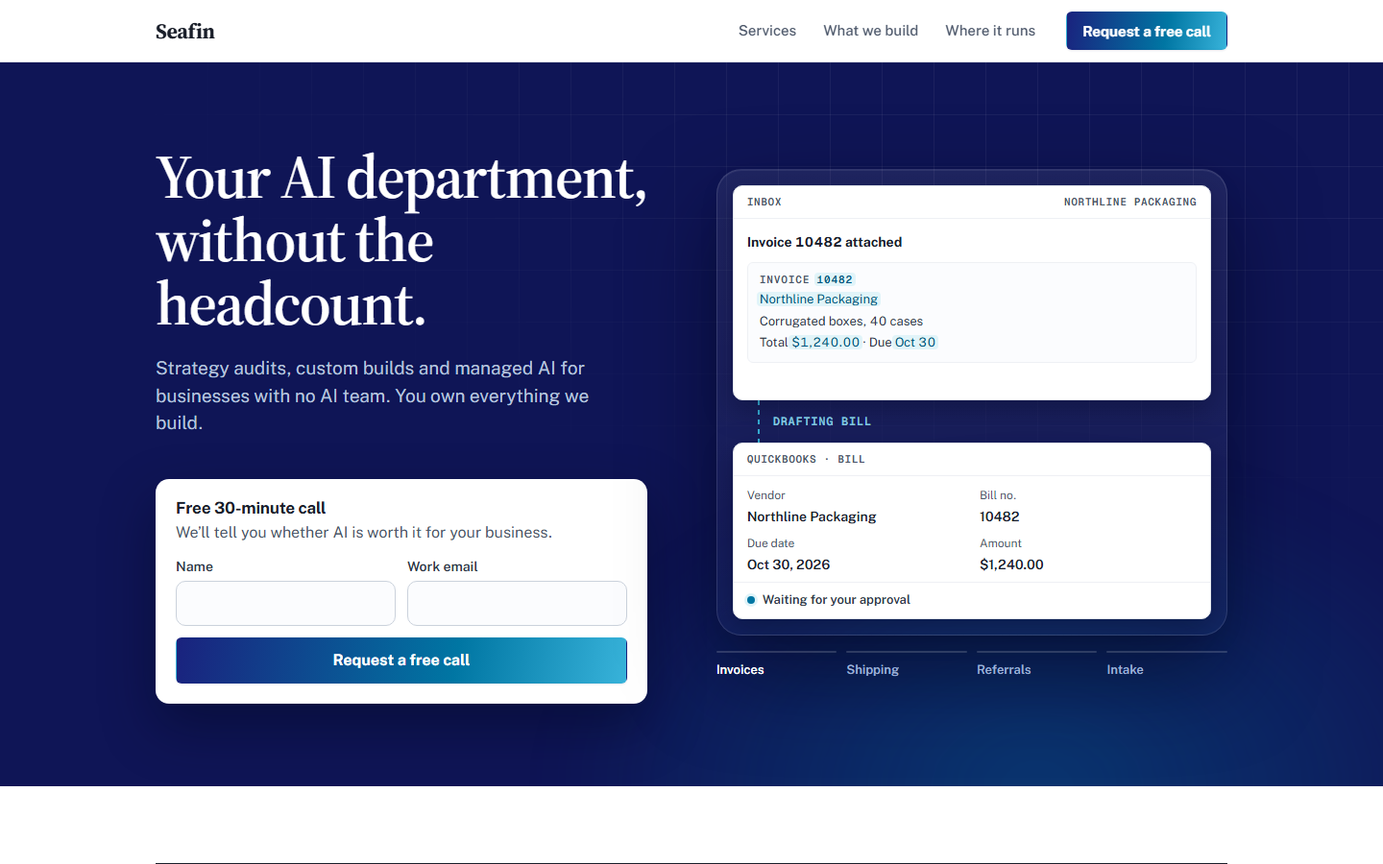
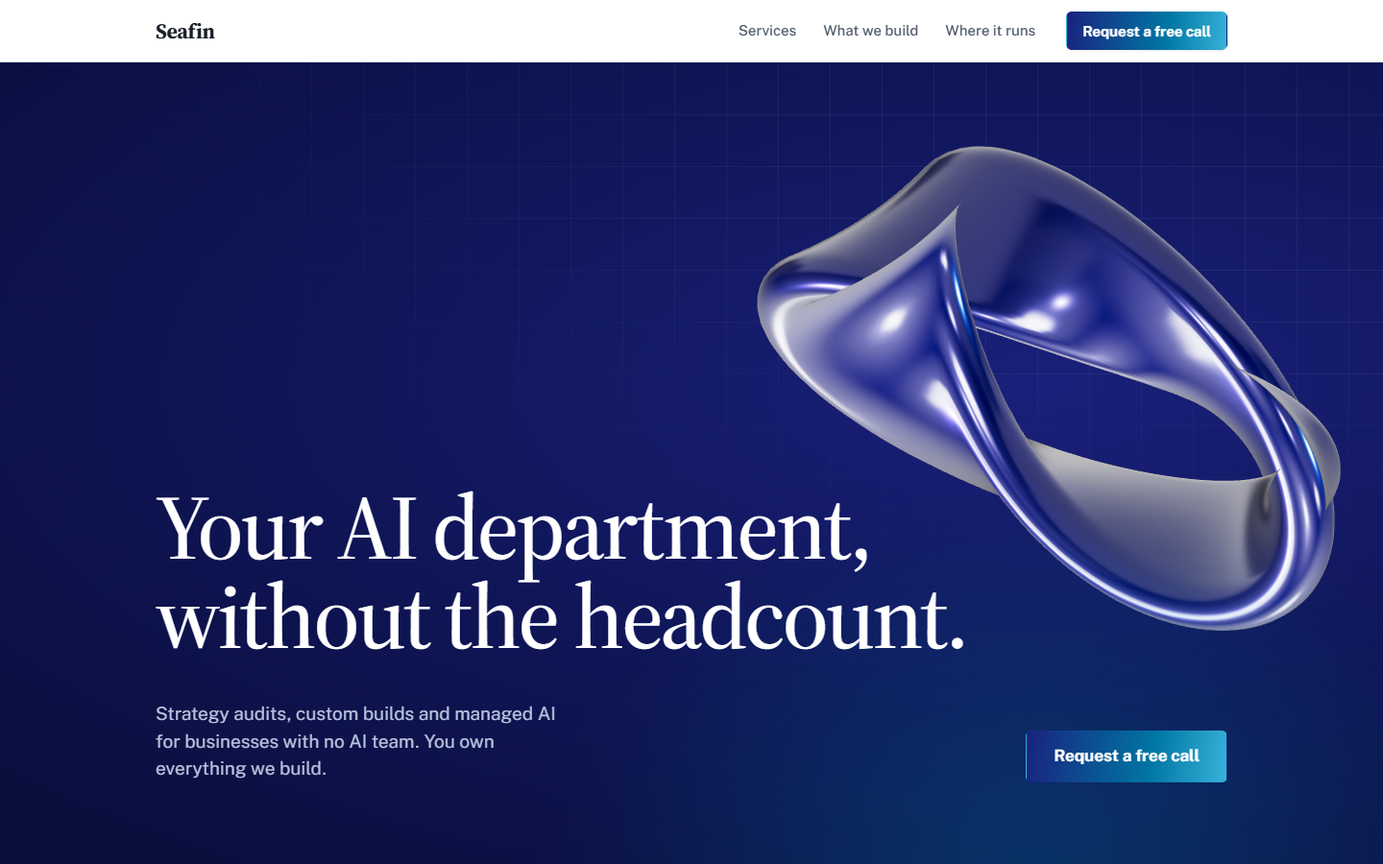
Design record for the Metalab-model opening; demo stage on Raised; review captures

diff --git a/seafin-site/home.css b/seafin-site/home.css
@@ -185,7 +185,7 @@ h1, h2, h3 { margin: 0; color: var(--ink-900); }
     linear-gradient(rgba(255, 255, 255, 0.045) 1px, transparent 1px) 0 0 / 40px 40px,
     linear-gradient(90deg, rgba(255, 255, 255, 0.045) 1px, transparent 1px) 0 0 / 40px 40px,
     radial-gradient(120% 100% at 80% 0%, #1d2590 0%, var(--tracelet-indigo-deep) 60%, #0a0f40 100%);
-  box-shadow: var(--shadow-3);
+  box-shadow: var(--shadow-2);
 }
 .app { position: relative; overflow: hidden; background: var(--paper); border: 1px solid var(--line); border-radius: var(--r-input); box-shadow: 0 10px 30px rgba(3, 6, 30, 0.35); color: var(--ink-900); }
 .app-dst { display: flex; flex-direction: column; }
@@ -269,9 +269,8 @@ h1, h2, h3 { margin: 0; color: var(--ink-900); }
 .fence { position: absolute; top: -0.6rem; left: 16px; padding: 0 6px; background: var(--paper); font: 600 0.6875rem/1.2rem var(--font-mono); letter-spacing: 0.06em; text-transform: uppercase; color: var(--tracelet-teal); }
 .node { flex: none; width: 7.5rem; display: grid; justify-items: center; gap: 10px; text-align: center; font: 600 0.875rem/1.3 var(--font-sans); color: var(--ink-700); }
 .node svg { width: 36px; height: 36px; fill: none; stroke: var(--tracelet-teal); stroke-width: 1.5; stroke-linecap: round; stroke-linejoin: round; }
-/* the one moving thing on the page: data flowing along each wire */
+/* a static dashed wire between the two nodes */
 .wire { flex: 1; height: 2px; margin: 17px 4px 0; background-image: linear-gradient(90deg, var(--tracelet-teal-soft) 55%, transparent 0); background-size: 10px 2px; }
-@keyframes flow { to { background-position: 10px 0; } }
 .band .fit { margin-top: 20px; color: var(--ink-700); }
 
 /* closing band */

diff --git a/DESIGN.md b/DESIGN.md
@@ -22,10 +22,10 @@ colors:
 typography:
   display:
     fontFamily: "Source Serif 4, Georgia, serif"
-    fontSize: "clamp(2.625rem, 4.6vw, 4rem)"
-    fontWeight: 600
-    lineHeight: 1.03
-    letterSpacing: "-0.025em"
+    fontSize: "clamp(2.75rem, 6.6vw, 6rem)"
+    fontWeight: 500
+    lineHeight: 0.98
+    letterSpacing: "-0.03em"
   headline:
     fontFamily: "Source Serif 4, Georgia, serif"
     fontSize: "clamp(1.875rem, 3vw, 2.5rem)"
@@ -95,6 +95,12 @@ components:
     rounded: "{rounded.control}"
     padding: "0 20px"
     height: "44px"
+  button-primary-large:
+    backgroundColor: "{colors.indigo}"
+    textColor: "#ffffff"
+    rounded: "{rounded.control}"
+    padding: "0 28px"
+    height: "54px"
   input:
     backgroundColor: "{colors.paper-2}"
     textColor: "{colors.ink-900}"
@@ -108,8 +114,9 @@ components:
   form-panel:
     backgroundColor: "{colors.paper}"
     rounded: "{rounded.panel}"
-    padding: "18px 20px 20px"
+    padding: "clamp(20px, 2.2vw, 28px)"
   demo-stage:
+    backgroundColor: "{colors.indigo-deep}"
     rounded: "{rounded.media}"
     padding: "16px"
     height: "486px"
@@ -126,9 +133,9 @@ components:
   index-row:
     typography: "{typography.index}"
     padding: "{spacing.row-pad} 0"
-  flow-row:
-    typography: "{typography.body-large}"
-    padding: "22px 0"
+  case-row:
+    typography: "{typography.body}"
+    padding: "18px 0 20px"
   panel:
     backgroundColor: "{colors.paper}"
     rounded: "{rounded.panel}"
@@ -153,49 +160,50 @@ components:
 
 Seafin does not have its own visual world. By the user's standing pin (PRODUCT.md, Brand Commitments), Seafin's site uses the Wardix design system: `tracelet` repo `design.md` on `origin/dev` ("Vigilant Infrastructure") for doctrine, and `tracelet-vendor/pages/css/tracelet-landing.css` for token values. This file records how that system landed on Seafin, and where Seafin departs from the Wardix marketing site. When this file is silent, the upstream `design.md` governs; when they disagree, this file records what Seafin shipped.
 
-The page should look like it comes from the same company as Wardix: it opens on the Wardix dark hero (Deep Indigo under a fading engineering grid and a soft teal glow, the same treatment `tracelet-landing.css` uses), then runs white with hairline rules, one Canvas band, one bordered panel, serif headings, sans everything else, and one gradient button. Restraint carries the premium feel everywhere except one place: the hero's demo, "the build, played", where the page shows what Seafin does by playing it. It reads as a consulting practice's page, not a person's or a product's. Density is moderate: a compact first viewport and generous spacing below.
+The page is built on the Metalab model (chosen 2026-10-04 after a study of leading design studios): the opening is one big serif statement and one crafted object on the Wardix dark field (deep indigo under the fading engineering grid and a soft teal glow), with nothing else on the first screen. Below it the page runs white with hairline rules, one Canvas band and a Bastion close: the form in its own section, the practice index, a played demo of real-world builds, and where the work runs. Serif headings, sans everything else, one gradient button. Restraint carries the premium feel; the two crafted pieces (the opening object and the build demo) carry the craft. It reads as a consulting practice's page, not a person's or a product's.
 
-Seafin departs from the Wardix marketing site in four places, each on purpose. There are no mono labels above headings, because Impeccable's craft floor bans them. There is no photography or raster imagery: no scenic hero (it would make Seafin read as a copy of the Wardix site), no founder portrait, no product screenshot. The pictures are built from markup: the hero demo's mock app cards, whose four scenes are modelled on published small-business cases, and the drawn teal route diagrams. The brand gradient is narrowed to the single primary action. And motion has one focal point, the demo; everything else that moves is quiet.
+Seafin departs from the Wardix marketing site in four places, each on purpose. There are no mono labels above headings, because Impeccable's craft floor bans them. There is no photography or raster imagery: no scenic hero (it would make Seafin read as a copy of the Wardix site), no founder portrait, no product screenshot. The pictures are made, not shot: one rendered 3D object in the opening, the demo's mock app cards (four scenes modelled on published small-business cases), and drawn teal route diagrams. The brand gradient is narrowed to the single primary action. And only two things move on their own, each in its own section.
 
 **Key Characteristics:**
-- A Deep Indigo opening with the upstream engineering grid, then a white page with one Canvas band and a Bastion close; dark mode from the same token pairs.
-- Source Serif 4 for the page's headings and the service names, Public Sans for everything readable, Geist Mono only for short functional tags and mock-software chrome.
+- A deep indigo opening holding one serif statement and one glossy 3D object, then a white page with one Canvas band and a Bastion close; dark mode from the same token pairs, with light surfaces pinned light.
+- Source Serif 4 for the statement, the section headings and the service names; Public Sans for everything readable; Geist Mono only for short functional tags.
 - One radius family: 6 / 10 / 14 / 26, plus 4px for inline highlights.
 - One action per page, one label for it, one gradient on it.
-- One focal motion (the hero demo), quiet supporting motion elsewhere; no photography; no invented proof.
+- Two self-moving pieces (the opening object, the build demo), everything else still; no photography; no invented proof.
 
 ## Colors
 
-Neutral cool surfaces with one control color (indigo), one accent (teal), and two dark fields: Deep Indigo to open, Bastion Navy to close.
+Neutral cool surfaces with one control color (indigo), one accent (teal), and two dark grounds: Deep Indigo for the opening and the demo stage, Bastion Navy to close.
 
 ### Primary
 - **Primary Indigo** (`indigo`): the control and brand color. Starts the brand gradient, sets `theme-color` and the text-selection background. Never used as a flat page fill.
-- **Deep Indigo** (`indigo-deep`): the hero field (#070a18 in dark mode, set on the hero itself) and the tint source for every light-mode shadow. Indigo Tint (#e8eaf5) is still declared from the Wardix set but unused here.
+- **Deep Indigo** (`indigo-deep`): the middle stop of the opening's radial field (#19207a at the light point, #080c33 at the edge) and of the demo stage's (#1d2590 to #0a0f40); the tint source for every light-mode shadow. The opening keeps the same field in both modes. Indigo Tint (#e8eaf5) is still declared from the Wardix set but unused here.
 
 ### Secondary
-- **Signal Teal** (`teal`): links, focus outlines, input focus borders, caret, duration tags, flow arrows, diagram icons, the dashed boundary and its label, the sent-state border on the form panel, and in the demo the flying chips, the working/done status dot and the typing caret. In dark mode it becomes Soft Teal (#38b3da) so it stays legible on navy; upstream Wardix does not make this swap.
-- **Deep Teal** (`teal-deep`): link hover and the text of a demo mark once the scan has lit it. In dark mode it lightens to #8fd6ee, so hover always moves away from the background.
-- **Soft Teal** (`teal-soft`): ends the brand gradient; every wire (route diagrams, demo relay); the demo scan line and tab progress fill; focus outline color on the dark fields.
+- **Signal Teal** (`teal`): links, focus outlines, input focus borders, caret, duration tags, diagram icons, the dashed boundary and its label, the sent-state border on the form panel; in the demo, the chips, the status dot, the playing case's input line and its 2px progress line. In dark mode it becomes Soft Teal (#38b3da) so it stays legible on navy; upstream Wardix does not make this swap.
+- **Deep Teal** (`teal-deep`): link hover and the text of a lit demo mark. In dark mode it lightens to #8fd6ee, so hover always moves away from the background.
+- **Soft Teal** (`teal-soft`): ends the brand gradient; the route-diagram wires; the opening object's teal rim light; focus outline color on the dark grounds.
 - **Teal Tint** (`teal-tint`): the 3px focus halo around inputs, the sent-state halo around the form panel, and the highlight behind a lit demo mark or a freshly filled demo field. Dark pair #0c2c3a.
 
 ### Tertiary
 - **Bastion Navy** (`bastion`): the closing band only, the same in both modes.
 
 ### Neutral
-- **Ink 900 / 700 / 500** (`ink-900`, `ink-700`, `ink-500`): headings, primary text, flow results and the practice-index top rule / field labels, diagram node labels, demo card body text, the "which one fits" line and the footer maker name / descriptions, flow inputs, demo field keys and app-bar text, nav and footer links. Dark pairs #e9ecf6 / #cdd3e6 / #9aa3c0.
+- **Ink 900 / 700 / 500** (`ink-900`, `ink-700`, `ink-500`): headings, primary text, demo app-bar names, the playing case's result line and the practice-index top rule / field labels, diagram node labels, demo card body text, resting case results, the "which one fits" line and the footer maker name / descriptions, case input lines, the call sub-line, demo field keys, nav and footer links. Dark pairs #e9ecf6 / #cdd3e6 / #9aa3c0.
 - **Paper** (`paper`): the page background, the form panel, the demo's app cards, the routes panel, nav (at 94%). Dark pair #121732.
-- **Paper 2** (`paper-2`): input fills, diagram wells and the document inset in a demo card. Dark pair #0f1430.
+- **Paper 2** (`paper-2`): input fills, diagram wells and the document and table-header insets in a demo card. Dark pair #0f1430.
 - **Canvas** (`bg`): the "Where it runs" band only. Dark pair #0b0e1a.
-- **Line** (`line`): panel and card borders, practice-index and flow row rules, section dividers, nav bottom border. Dark #262c44.
+- **Line** (`line`): panel and card borders, practice-index and case row rules, section dividers, nav bottom border. Dark #262c44.
 - **Line Soft** (`line-soft`): dividers inside a panel or card, diagram well borders. Dark #1e2438.
 - **Line Strong** (`line-strong`): input borders (hover mixes in 45% Ink 500); the idle demo status dot. Seafin's addition, not in the upstream token set. Dark #3a4466.
 - **Danger** (`danger`): form error text only. Dark #ff8a80. Seafin's name for upstream's critical red.
-- **Hero-local colors:** white for the H1, #b9c4de for the lede, #9fb0d4 for idle demo tabs (white when active or hovered), #8fd6ee for the demo's step label; the glass stage is white at 7% to 2.5% with a 13% white border. All set on the hero so it reads the same in both modes.
+- **Pinned light surfaces:** the form panel, the demo's app cards and its chips keep the light values of every token above in both modes, so they read as white objects on dark grounds and on the dark-mode page.
+- **Dark-ground local colors:** white for the H1, #b9c4de for the lede and the demo's step label, white at 28% for the demo relay line, white at 4.5% to 5.5% for grid lines. The opening object's second rim light is violet (#7d86ff), a light color only, never a fill.
 
 ### Named Rules
-**The One Gradient Rule.** The indigo-to-teal brand gradient appears only on "Request a free call" buttons (nav, form submit, closing band) and on the favicon tile. Not on text, cards, section backgrounds, or a second button. The hero's grid, teal glow, the demo's glass sheen and its scan line are translucent tints confined to the hero, not the brand gradient.
+**The One Gradient Rule.** The indigo-to-teal brand gradient appears only on "Request a free call" buttons (nav, opening, form submit, closing band) and on the favicon tile. Not on text, cards, section backgrounds, or a second button. The tonal indigo radials behind the opening and the demo stage, their grid lines and the teal glow are fields, not the brand gradient, and appear nowhere else.
 
-**The Two Dark Fields Rule.** Deep Indigo opens the page (the hero); Bastion Navy closes it (the closing band). Neither appears anywhere else, and they never swap.
+**The Dark Grounds Rule.** Deep Indigo is for the opening field and the demo stage; Bastion Navy is for the closing band. They never swap, and no other surface goes dark.
 
 **The Status-Means-State Rule.** Green, gold and red mean real system state. Seafin uses only red, and only for a failed form send. The demo's status dot is teal, never green.
 
@@ -210,63 +218,62 @@ All three are self-hosted WOFF2 files in `seafin-site/fonts`, using `font-displa
 **Character:** an editorial serif for the page's statements and the names of what Seafin sells, over a plain, sturdy civic sans that does all the reading. Tabular numerals are on across the whole body.
 
 ### Hierarchy
-- **Display** (600, clamp(2.625rem, 4.6vw, 4rem), 1.03, -0.025em, white): the hero H1 only. Balanced wrap. Drops to 2rem / 1.1 at ≤480px.
-- **Headline** (600, clamp(1.875rem, 3vw, 2.5rem), 1.12, -0.015em): section H2s and the closing-band H2.
+- **Display** (500, clamp(2.75rem, 6.6vw, 6rem), 0.98, -0.03em, white, max 11.5em): the opening statement only. The closing phrase ("without the headcount.") is held on one line above 480px; at ≤480px the statement is 2.625rem / 1.02 and wraps freely.
+- **Headline** (600, clamp(1.875rem, 3vw, 2.5rem), 1.12, -0.015em): section H2s, including the call section's "Free 30-minute call", and the closing-band H2.
 - **Index** (600, clamp(1.625rem, 2.4vw, 2.125rem), 1.15, -0.015em): service names in the practice index.
-- **Title** (Public Sans 700, 1.1875rem, 1.3): route H3s in the routes panel. The form-panel heading is a smaller sans title (700, 1.0625rem, 1.3, -0.01em).
-- **Lede** (400, 1.1875rem, 1.5, #b9c4de, max 40ch): the hero sentence, 20px under the H1.
-- **Body Large** (400, 1.125rem): flow rows; the result side is ink-900 at 600, the input side ink-500.
-- **Body** (400, 1.0625rem, 1.6): running text. Descriptions cap at 52 to 60ch.
-- **Label** (Geist Mono 600, 0.75rem, 0.06em, uppercase, teal): duration tags in the practice index; the demo's step label. The diagram boundary label and the demo's app-bar and document headers use the same face at 0.6875rem.
+- **Title** (Public Sans 700, 1.1875rem, 1.3): route H3s in the routes panel.
+- **Lede** (400, 1.1875rem, 1.5, #b9c4de, max 38ch): the opening sentence.
+- **Body Large** (400, 1.125rem): the call section's sub-line (ink-500, max 34ch).
+- **Body** (400, 1.0625rem, 1.6): running text. Descriptions cap at 52 to 60ch. Case rows: the input line at 0.9375rem, the result line at 600 1.0625rem / 1.4.
+- **Label** (Geist Mono 600, 0.75rem, 0.06em, uppercase, teal): duration tags in the practice index. The diagram boundary label uses the same face at 0.6875rem. Nothing inside the demo is mono.
 - **Field label** (Public Sans 600, 0.875rem, 1.3, ink-700): form labels and diagram node labels.
-- **Demo scale:** inside the demo cards text runs smaller to read as software: 0.875rem body, field values and chips (one fixed 1.5rem line), 0.8125rem documents, tables and tabs, 0.75rem field keys (body, values and chips one step smaller at ≤480px).
+- **Demo scale:** inside the demo cards text runs smaller to read as software, all in Public Sans: app-bar names 600 0.8125rem (meta 400 ink-500), 0.875rem body, field values and chips (one fixed 1.5rem line), 0.8125rem documents and tables, 0.75rem field keys and table headers (body, values and chips one step smaller at ≤480px).
 
 ### Named Rules
-**The Serif-Is-For-The-Page Rule.** Serif is for page-level headings (the H1, section H2s, the closing H2) and for the service names in the practice index, which act as the headings of what Seafin sells. Panel titles, including the form-panel heading and the route H3s, are Public Sans bold. Nothing inside the demo is serif.
+**The Serif-Is-For-The-Page Rule.** Serif is for the opening statement, section H2s, the closing H2 and the service names in the practice index, which act as the headings of what Seafin sells. Panel titles and everything inside the demo are Public Sans.
 
-**The Mono-Tags-Never-Lead Rule.** On the page, Geist Mono uppercase labels are short and functional: duration tags set beside their title (desktop) or beneath it (≤960px), the step label on the demo's wire, and the one label that names a drawn boundary in a diagram. A mono label never sits above a page heading and never leads a page row. Inside the demo's mock app cards, mono is the mock software's own chrome (app name and meta, document and table headers, speaker names) and depicts an interface; it is not a page device to reuse elsewhere.
+**The Mono-Tags-Never-Lead Rule.** Geist Mono uppercase labels are short and functional: duration tags set beside their title (desktop) or beneath it (≤960px), and the one label that names a drawn boundary in a diagram. A mono label never sits above a heading, never leads a row, and never stands in for interface chrome.
 
 ## Layout
 
 Single column centered at 1180px max width with a gutter of clamp(16px, 4vw, 32px). Sections pad clamp(56px, 7vw, 96px) top and bottom and are separated by a 1px Line rule.
 
-The first viewport is the dark hero (clamp(48px, 6vw, 96px) top, clamp(48px, 6vw, 88px) bottom), two columns at 1fr / 1.04fr, vertically centered, 40px by clamp(32px, 5vw, 72px) apart. Left: the serif H1, the lede, and clamp(28px, 3.5vw, 44px) below them the form panel. Right: the demo. The practice index follows on white after clamp(48px, 6vw, 80px), opened by its 1px ink-900 rule (its section heading is visually hidden). The practice index pattern was borrowed from Accenture's and Capgemini's practice pages (chosen 2026-10-04).
+The opening fills the first screen: at least 560px, at most 880px, otherwise the viewport less the 64px nav. Its content is anchored to the bottom (padding clamp(48px, 6vw, 96px) top, clamp(48px, 6vw, 88px) bottom): the statement, then clamp(28px, 3vw, 40px) below it one row with the lede on the left and the large primary button on the right, wrapping when narrow. The 3D object fills the field behind the text, framed large and partly cropped to the right of the statement on wide screens (≥900px canvas) and above it on narrow ones.
 
 The sections change shape instead of repeating one template:
-1. The practice index: open ruled rows, three columns (16rem / 13.5rem / 1fr) of name, duration tag and description (Services).
-2. A heading over full-width flow rows: input, arrow, result (What a build looks like).
-3. A Canvas band with a heading over one two-route panel and a single line beneath it (Where it runs).
-4. A full-bleed Bastion band with the heading and actions on one line (closing).
-5. A one-line footer: maker name left, mail and legal links right.
+1. The call: heading and sub-line on the left, the form panel on the right (1fr / 1.2fr, vertically centered).
+2. The practice index: open ruled rows, three columns (16rem / 13.5rem / 1fr) of name, duration tag and description, after clamp(48px, 6vw, 80px) and opened by a 1px ink-900 rule; its section heading is visually hidden (Services). The pattern was borrowed from Accenture's and Capgemini's practice pages (chosen 2026-10-04).
+3. A heading over a split: the four cases as a ruled list on the left, the demo stage on the right (1fr / 1.15fr, vertically centered) (What a build looks like).
+4. A Canvas band with a heading over one two-route panel and a single line beneath it (Where it runs).
+5. A full-bleed Bastion band with the heading and actions on one line (closing).
+6. A one-line footer: maker name left, mail and legal links right.
 
-Breakpoints: at ≤960px the hero collapses to one column with the demo below the form (capped at 560px wide), and index rows stack (name, tag, description). At ≤760px nav links hide, the two form fields stack, flow rows stack with the arrow turned to point down, and the routes panel stacks. At ≤480px the hero type steps down, the demo's padding and type tighten, and closing-band buttons go full width.
+Breakpoints: at ≤960px the call and build splits collapse to one column (the demo capped at 600px wide) and index rows stack (name, tag, description). At ≤760px nav links hide, the two form fields stack, and the routes panel stacks. At ≤480px the statement steps down and wraps, the opening button and closing-band buttons go full width, and the demo's padding and type tighten.
 
 ## Elevation & Depth
 
-A hybrid that leans flat: hairline borders, rules and two dark fields do the separating. On light ground, one quiet indigo-tinted shadow gives the routes panel and buttons a little lift. On the dark hero, depth is deliberate and deep: the form panel and the demo float on dark navy shadows, and the demo's cards sit inside a glass stage. In dark mode, Raised and Overlay become neutral black and stronger, while Resting keeps its light indigo tint.
+A hybrid that leans flat: hairline borders, rules and the dark grounds do the separating. One quiet indigo-tinted shadow gives the routes panel and buttons a little lift; the form panel, as the page's one action, rests on Raised. On the dark demo stage, the white app cards float on a dark navy shadow. In dark mode, Raised and Overlay become neutral black and stronger, while Resting keeps its light indigo tint. The opening object's depth is its own lighting (clearcoat highlights and rim light), not a CSS shadow.
 
 ### Shadow Vocabulary
 - **Resting** (`box-shadow: 0 1px 2px rgba(15, 21, 86, 0.06), 0 1px 3px rgba(15, 21, 86, 0.04)`): the routes panel and primary buttons at rest.
-- **Raised** (`box-shadow: 0 4px 12px rgba(15, 21, 86, 0.08), 0 2px 4px rgba(15, 21, 86, 0.04)`): button hover and the form panel's sent state only. Dark: `0 4px 14px rgba(0, 0, 0, 0.4)`.
-- **Hero Lift** (`box-shadow: 0 24px 56px rgba(3, 6, 30, 0.45)`): the form panel on the dark hero.
-- **Stage** (`box-shadow: 0 40px 90px rgba(3, 6, 30, 0.55), inset 0 1px 0 rgba(255, 255, 255, 0.08)`): the demo's glass stage.
-- **Card on Stage** (`box-shadow: 0 10px 30px rgba(3, 6, 30, 0.35)`): the demo's app cards.
-- **Chip Glow** (`box-shadow: 0 8px 20px rgba(0, 118, 163, 0.4)`): a demo chip in flight.
-- **Overlay** (`box-shadow: 0 14px 32px rgba(15, 21, 86, 0.1), 0 4px 12px rgba(15, 21, 86, 0.05)`): defined but unused on this page. Kept for menus and dialogs.
+- **Raised** (`box-shadow: 0 4px 12px rgba(15, 21, 86, 0.08), 0 2px 4px rgba(15, 21, 86, 0.04)`): the form panel at rest, button hover, and under the form panel's sent-state halo. Dark: `0 4px 14px rgba(0, 0, 0, 0.4)`.
+- **Card on Stage** (`box-shadow: 0 10px 30px rgba(3, 6, 30, 0.35)`): the demo's app cards, on the dark stage only.
+- **Chip** (`box-shadow: 0 2px 6px rgba(3, 6, 30, 0.18)`): a demo chip in transit.
+- **Overlay** (`box-shadow: 0 14px 32px rgba(15, 21, 86, 0.1), 0 4px 12px rgba(15, 21, 86, 0.05)`; dark `0 18px 40px rgba(0, 0, 0, 0.5)`): kept for menus and dialogs.
 
 ### Named Rules
-**The Quiet Elevation Rule.** On light ground nothing at rest sits above Resting; Raised appears only in response to state (hover, a sent form) and Overlay is for overlays. Deep shadows (Hero Lift, Stage, Card on Stage, Chip Glow) exist only on the dark hero, where a light shadow would vanish.
+**The Quiet Elevation Rule.** Nothing at rest sits above Resting except the form panel (the one action) and the demo stage (the one showcase), which rest on Raised. Overlay is for overlays. The deep Card on Stage shadow exists only on a dark ground, where a light shadow would vanish.
 
 ## Shapes
 
-One radius family from upstream: 6px for buttons and the documents and tables inside demo cards, 10px for inputs, diagram wells and demo app cards, 14px for the form panel and the routes panel, 26px (upstream's media radius) for the demo stage. Below the family, 4px rounds inline highlights: lit demo marks, chips, filled demo fields and the focus ring. The practice index and flow rows have no corners at all: they are rules, not containers. No pills, no icon tiles; the only round shape is the 8px demo status dot. Borders and rules are 1px; lines inside a panel use Line Soft, outer lines use Line. Two marked exceptions: the ink-900 rule that opens the practice index, and the 1.5px dashed teal boundary around the self-hosted diagram. Icons and arrows are open line strokes (1.5 to 1.75, round caps and joins) in teal, never filled.
+One radius family from upstream: 6px for buttons and the documents and tables inside demo cards, 10px for inputs, diagram wells and demo app cards, 14px for the form panel and the routes panel, 26px (upstream's media radius) for the demo stage. Below the family, 4px rounds inline highlights: lit demo marks, chips, filled demo fields and the focus ring. The practice index and the case list have no corners at all: they are rules, not containers. No pills, no icon tiles; the only round shape is the 8px demo status dot. Borders and rules are 1px; lines inside a panel use Line Soft, outer lines use Line. Marked exceptions: the ink-900 rule that opens the practice index, the 2px teal progress line under the playing case, and the 1.5px dashed teal boundary around the self-hosted diagram. Icons are open line strokes (1.5, round caps and joins) in teal, never filled.
 
 ## Components
 
 ### Buttons
-- **Shape:** gently rounded (6px), min height 44px (40px with 16px padding in the nav, 48px full-width at 1rem in the form panel), padding 0 20px, Public Sans 700 at 0.9375rem.
+- **Shape:** gently rounded (6px), min height 44px, padding 0 20px, Public Sans 700 at 0.9375rem. Sizes: 40px with 16px padding in the nav; 48px full-width at 1rem in the form panel; large, 54px with 28px padding at 1.0625rem, in the opening (full width at ≤480px).
 - **Primary:** brand gradient (`linear-gradient(100deg, indigo 0%, teal 62%, teal-soft 100%)`; dark: #2b35a8 / #0a85b6 / #38b3da; the frontmatter records indigo as its solid fallback), white text, Resting shadow. One label everywhere: "Request a free call".
-- **Hover / Focus:** hover brightens (`filter: brightness(1.08)`) and lifts to Raised; press shifts down 1px and dims slightly (0.96). Transitions are 160ms ease-out. Focus is the global 2px teal outline, offset 3px (Soft Teal on the dark fields). While sending, the button is desaturated and the label reads "Sending…".
+- **Hover / Focus:** hover brightens (`filter: brightness(1.08)`) and lifts to Raised; press shifts down 1px and dims slightly (0.96). Transitions are 160ms ease-out. Focus is the global 2px teal outline, offset 3px (Soft Teal on the dark grounds). While sending, the button is desaturated and the label reads "Sending…".
 - **Secondary:** none.
 
 ### Inputs / Fields
@@ -282,33 +289,33 @@ One radius family from upstream: 6px for buttons and the documents and tables in
 - **One panel per comparison:** a two-option comparison is one panel split by a vertical Line Soft divider. Related items are never split into separate cards.
 
 ### Navigation
-- Sticky, 64px tall, Paper at 94% with a 10px backdrop blur and a bottom Line border, sitting over the dark hero. Serif wordmark "Seafin" (700, 1.375rem, -0.02em). Three links (Services, What we build, Where it runs) in Public Sans 500 0.9375rem ink-500, turning ink-900 on hover. The primary button sits at the right.
+- Sticky, 64px tall, Paper at 94% with a 10px backdrop blur and a bottom Line border, sitting over the dark opening. Serif wordmark "Seafin" (700, 1.375rem, -0.02em). Three links (Services, What we build, Where it runs) in Public Sans 500 0.9375rem ink-500, turning ink-900 on hover. The primary button sits at the right.
 - On this one-page build, links hide at ≤760px with no menu replacement. The primary button stays in the header.
 
-### Hero
-The Wardix opening, adopted from upstream: a Deep Indigo field (#070a18 in dark mode) under an engineering grid of 1px white lines at 5.5% opacity on a 54px square, faded out by a radial mask from the top right, with a blurred teal glow (Signal Teal at 35%) rising from the bottom right. The grid and glow sit behind the content and carry no meaning; they appear only here.
+### Opening (signature)
+One statement, one line of lede, one large button, one object. The field is a radial deep indigo (#19207a at 75% / 40% through Deep Indigo to #080c33), with the Wardix engineering grid (1px white lines at 5.5% on a 54px square, radially masked from the top right) and a blurred teal glow (Signal Teal at 35%) at the bottom right. Field, grid and glow are the same in both modes and appear only here.
 
-### Form Panel
-The one action, in the hero's left column under the lede: Paper fill, transparent border, 14px radius, padded 18px 20px 20px, Hero Lift shadow. The sans heading and its one-line ink-500 sub-line (1rem) share a baseline row and wrap when narrow. Below, 14px down, name and work email sit side by side (12px gap, stacking at ≤760px) over a full-width 48px primary button; an `aria-live` status line spans beneath. On a successful send, the fields disable, the button hides, the border warms to teal with a 3px Teal Tint halo plus Raised (400ms ease-out), and the confirmation fades up 4px (420ms, cubic-bezier(0.16, 1, 0.3, 1)). Every "Request a free call" link scrolls to the panel and focuses the first field.
+### Opening Object (signature)
+One crafted WebGL object behind the statement, rendered by `hero3d.js` with three.js 0.170 (loaded from jsDelivr through an import map): an abstract ribbon ring with a stadium-shaped section (wide, thin, fully rounded edges) and one full twist per lap. Its finish is a glossy near-black indigo (#151b6e, metalness 0.55, roughness 0.17, mirror clearcoat) lit by a teal rim (#38b3da), a violet rim (#7d86ff) and a faint white key, under ACES tone mapping and a studio environment; the light, not the color, draws the form. It turns slowly about its own axis so the twist carries the highlights round the loop, inside a slow lean and float that never shows it edge-on, and tilts a few degrees toward the pointer (eased at 5% per frame). It fades in over 900ms on its first frame, pauses when off screen or in a hidden tab, renders one still pose under reduced motion, and if WebGL or the module fails the indigo field simply stays. There is one object per page.
+
+### Call Section and Form Panel
+The form lives in its own section straight after the opening: the serif heading and a Body Large ink-500 sub-line on the left, the form panel on the right. The panel is Paper with a 1px Line border, 14px radius, padded clamp(20px, 2.2vw, 28px), resting on Raised, its tokens pinned light in both modes. Name and work email sit side by side (14px gap, stacking at ≤760px) over a full-width 48px primary button; an `aria-live` status line spans beneath. On a successful send, the fields disable, the button hides, the border warms to teal with a 3px Teal Tint halo plus Raised (400ms ease-out), and the confirmation fades up 4px (420ms, cubic-bezier(0.16, 1, 0.3, 1)). Every "Request a free call" link scrolls to the panel and focuses the first field.
 
 ### The Build, Played (signature)
-The hero's right column: a looping demo of four example builds (invoices, leads, inbox, meetings), each showing a message turning into finished work in a real tool.
-- **Stage:** a glass panel 486px tall (470px and 12px padding at ≤480px), 26px radius, 16px padding, a top-to-bottom white sheen (7% to 2.5%), a 13% white border and the Stage shadow. Three rows: the source card, a 44px relay, the destination card.
-- **App cards:** two fixed frames, Paper, 1px Line border, 10px radius, Card on Stage shadow; they never leave the stage. A Line Soft app bar carries the mock app's name and meta in 0.6875rem mono ink-500. The source body is a fixed 188px (180px at ≤480px) holding an email, document, carrier table, fax or transcript in 6px-radius Paper 2 insets. The destination holds a two-by-two field list (key in 0.75rem ink-500; value in 600 ink-900 on one fixed 1.5rem line with ellipsis, so nothing shifts when a value lands; an empty value is a short Line bar) and a status row with an 8px dot pinned to the bottom.
-- **Relay:** a vertical 2px dashed Soft Teal wire drifting downward (900ms linear) beside a mono step label in #8fd6ee that changes per step with a 280ms fade-up.
-- **Tabs:** four progress tabs (Invoices, Shipping, Referrals, Intake) under the stage, each a 2px track (white 16%) that fills with Soft Teal over 7.6s, the exact length of a scene (the hold stretches to land on it). Clicking a tab jumps to that scene. Hidden without JS.
-- **Rhythm (one for every scene):** the frames' contents cross-fade (out 200ms, in 360ms with a 40ms stagger); a Soft Teal scan line sweeps the source (1300ms) and lights each mark Teal Tint / Deep Teal as it passes; Signal Teal chips travel one at a time (280ms apart, 900ms each, cubic-bezier(0.45, 0, 0.2, 1)) on a shallow arc and settle exactly on the field's value line, which flashes Teal Tint as it fills (900ms); computed fields (an overcharge, a next step) then land in place without a chip; the status dot stops breathing and settles to teal with a halo; the record holds until the scene reaches 7.6s (at least 1.6s). Sequencing runs on timers, never on animation completion, so a throttled browser cannot stall the loop.
-- **Restraint:** the loop pauses when less than 20% of the stage is on screen and when the browser tab is hidden. Under reduced motion, and without JS, the markup shows one composed still frame (the finished invoice scene); with reduced motion, tabs swap still frames.
-- **Sample data:** each scene is modelled on a published small-business case (sources in PRODUCT.md); names, amounts and dates are illustrative, labelled "Example build" to assistive tech, and the source businesses are never named, quoted or presented as Seafin's clients.
+"What a build looks like" plays four builds, each modelled on a published small-business case: a supplier invoice becomes a QuickBooks bill, a carrier invoice is checked against the contract rate, a faxed referral becomes a patient and an order, a recorded intake call becomes a case summary.
+- **Case list:** the four cases are the demo's controls, a ruled list of buttons under a Line top rule with a Line rule under each (18px top, 20px bottom). Each shows the input line (0.9375rem, ink-500) over the result line (600 1.0625rem, ink-700, ink-900 on hover). The playing case turns its input line teal and its result ink-900, and a 2px teal line grows along its bottom edge over the scene's 7.6s. Clicking a case jumps to it.
+- **Stage:** a solid dark panel 486px tall (470px and 12px padding at ≤480px), 26px radius, 16px padding: a radial indigo field (#1d2590 through Deep Indigo to #0a0f40) under a 40px grid of white lines at 4.5%. Three rows: the source card, a 44px relay, the destination card.
+- **App cards:** two fixed frames, Paper (pinned light), 1px Line border, 10px radius, Card on Stage shadow; they never leave the stage. A Line Soft app bar names the mock app in Public Sans 600 with its meta in 400 ink-500. The source body is a fixed 188px (180px at ≤480px) holding an email, document, carrier table, fax or transcript in 6px-radius insets. The destination holds a two-by-two field list (key in 0.75rem ink-500; value in 600 ink-900 on one fixed 1.5rem line with ellipsis, so nothing shifts when a value lands; an empty value is a short Line bar) and a status row with an 8px dot pinned to the bottom.
+- **Relay:** a plain 1px hairline (white at 28%) beside a step label in Public Sans 500 0.8125rem #b9c4de that changes per step with a 280ms fade-up.
+- **Rhythm (one for every scene):** the frames' contents cross-fade (out 200ms, in 360ms with a 40ms stagger); the source is read top to bottom over 1300ms and each mark lights Teal Tint / Deep Teal in turn (260ms ease-out); Signal Teal chips travel one at a time (280ms apart, 900ms each, cubic-bezier(0.45, 0, 0.2, 1)) on a shallow arc and settle exactly on the field's value line, which flashes Teal Tint as it fills (900ms); computed fields (an overcharge, a next step) then land in place without a chip; the status dot stops breathing and settles to teal with a halo; the record holds until the scene reaches 7.6s (at least 1.6s). Sequencing runs on timers, never on animation completion, so a throttled browser cannot stall the loop.
+- **Restraint:** the loop pauses when less than 20% of the stage is on screen and when the browser tab is hidden. Under reduced motion, and without JS, the markup shows one composed still frame (the finished invoice scene); with reduced motion, cases swap still frames.
+- **Sample data:** names, amounts and dates are illustrative, labelled "Example build" to assistive tech; the source businesses (listed in PRODUCT.md) are never named, quoted or presented as Seafin's clients.
 
 ### Practice Index (signature)
 The three services as an open, ruled index: a 1px ink-900 rule on top, a 1px Line rule under each row, no panel, fill or shadow. Each row (24px top and bottom) sets the serif service name, the teal mono duration tag and the ink-500 description on one baseline across 16rem / 13.5rem / 1fr columns, 32px apart. At ≤960px each row stacks with the tag directly beneath the name.
 
-### Flow Rows
-Full-width rows of input, arrow, result (1fr / 22px / 1.25fr), 22px top and bottom, ruled with Line above each row and below the last. The input is ink-500, the result ink-900 at 600, the arrow a 22px teal line stroke. No tag or label leads a row; the tool is named inside the result sentence. At ≤760px the row stacks and the arrow points down.
-
 ### Route Diagram
-Inside each half of the routes panel, above the route title: a Paper 2 well (10px radius, Line Soft border, padded 26px 20px 20px) holding two nodes joined by a wire. Nodes are 36px teal line icons over a field-label caption, with no tile or fill behind them. The wire is a 2px dashed Soft Teal line that drifts continuously (900ms linear), quiet supporting motion. The self-hosted route's well swaps its border for a 1.5px dashed teal boundary, named by a 0.6875rem mono label set into the top edge.
+Inside each half of the routes panel, above the route title: a Paper 2 well (10px radius, Line Soft border, padded 26px 20px 20px) holding two nodes joined by a static 2px dashed Soft Teal wire. Nodes are 36px teal line icons over a field-label caption, with no tile or fill behind them. The self-hosted route's well swaps its border for a 1.5px dashed teal boundary, named by a 0.6875rem mono label set into the top edge.
 
 ### Closing Band
 Full-bleed Bastion Navy, padded clamp(56px, 7vw, 96px), with a white serif headline beside the primary button and a mail link in pale cyan (#9fd8ec, white on hover). Text and focus colors are set locally, so the band looks the same in both modes.
@@ -317,26 +324,26 @@ Full-bleed Bastion Navy, padded clamp(56px, 7vw, 96px), with a white serif headl
 One line under the band: "Seafin LLC" in ink-700 600 on the left, then the mail, Privacy and Terms links in ink-500 at 0.875rem, unadorned until hover (ink-900, underline).
 
 ### Motion
-One focal motion and quiet support. The hero demo is the page's focal motion, with the shared rhythm above. Supporting motion is limited to the drifting dashed wires (route diagrams and demo relay, 900ms linear), the form's sent state, and hover and focus transitions (140 to 160ms ease-out). Entrances ease out on cubic-bezier(0.16, 1, 0.3, 1); outgoing content leaves faster than incoming content arrives; containers stay put and only their contents change. All motion turns off under prefers-reduced-motion, leaving composed still frames.
+Two self-moving pieces, each in its own section: the opening object (slow, continuous, ambient) and the build demo (narrative, with the shared rhythm above). Everything else is still apart from state changes: the demo's breathing status dot, case color changes (200ms ease-out), the form's sent state, and hover and focus transitions (140 to 160ms ease-out). Entrances ease out on cubic-bezier(0.16, 1, 0.3, 1); outgoing content leaves faster than incoming content arrives; containers stay put and only their contents change. Both moving pieces pause off screen and in hidden tabs, and all motion turns off under prefers-reduced-motion, leaving composed still frames.
 
 ## Do's and Don'ts
 
 ### Do:
 - **Do** take every token from the Wardix set (upstream `design.md` + `tracelet-landing.css`) and add a Seafin-local token only when the build needs it (as with `line-strong`, `danger`).
 - **Do** reserve the brand gradient for "Request a free call" buttons, and use that same label everywhere the action appears.
-- **Do** open on the upstream dark hero (Deep Indigo, 54px grid, radial mask, teal glow) and close on Bastion Navy; keep everything between them light.
-- **Do** use Source Serif 4 for page-level headings and practice-index service names only, and Public Sans 700 for panel titles.
-- **Do** use Geist Mono uppercase only for short functional tags beside or beneath their title, step labels on a wire, a drawn boundary's name, or the chrome of a mock app.
-- **Do** give every looping animation a shared rhythm, keep its frames fixed so nothing shifts as content lands, pause it off-screen and in hidden tabs, and make its markup a composed still frame for reduced motion and no-JS.
-- **Do** list services and examples as open ruled rows, and put a two-option comparison in one 14px panel, rather than a grid of cards.
-- **Do** keep every color a light/dark token pair; check link and hover colors in both modes.
+- **Do** open with one serif statement, one lede line, one button and one crafted object on the deep indigo field with the 54px grid; nothing else on the first screen.
+- **Do** use Source Serif 4 for the statement, section headings and practice-index service names only, and Public Sans for panel titles and everything inside a mock interface.
+- **Do** use Geist Mono uppercase only for short functional tags beside or beneath their title, or to name a drawn boundary.
+- **Do** give every looping animation a shared rhythm, keep its frames fixed so nothing shifts as content lands, pause it off screen and in hidden tabs, and make its markup a composed still frame for reduced motion and no-JS.
+- **Do** pin light surfaces (the form panel, demo cards) to the light tokens when they sit on a dark ground or in dark mode.
+- **Do** list services and cases as open ruled rows, and put a two-option comparison in one 14px panel, rather than a grid of cards.
 
 ### Don't:
-- **Don't** place an uppercase mono label, kicker or eyebrow above a page heading or at the head of a page row (the Wardix marketing site's `.eyebrow` pattern is not carried over).
+- **Don't** place an uppercase mono label, kicker or eyebrow above a heading or at the head of a row, or use mono as interface chrome (the Wardix marketing site's `.eyebrow` pattern is not carried over).
 - **Don't** add photography or raster imagery to the consulting page: no scenic photos, no founder portrait, no product screenshots.
+- **Don't** add a second 3D object or a third self-moving piece; anything else stays still until the visitor acts.
 - **Don't** put icons in tiles, circles or filled badges, or use emoji icons.
-- **Don't** add a second focal motion; anything else that moves stays as quiet as the dashed wires.
-- **Don't** use deep shadows (Hero Lift, Stage, Card on Stage, Chip Glow) off the dark hero, or Raised and Overlay on anything at rest.
+- **Don't** use Card on Stage off a dark ground, or Overlay on anything at rest.
 - **Don't** add prose explaining the page to the visitor, section intros, decorative bold, or decorative numbers.
 - **Don't** show invented proof: no hypothetical case studies, logos, testimonials or counts. Demo scenes may be modelled on published cases, but their data stays illustrative and the source businesses are never named or framed as clients or results.
 - **Don't** use pills, radii outside 4 / 6 / 10 / 14 / 26, or sharp cards.
